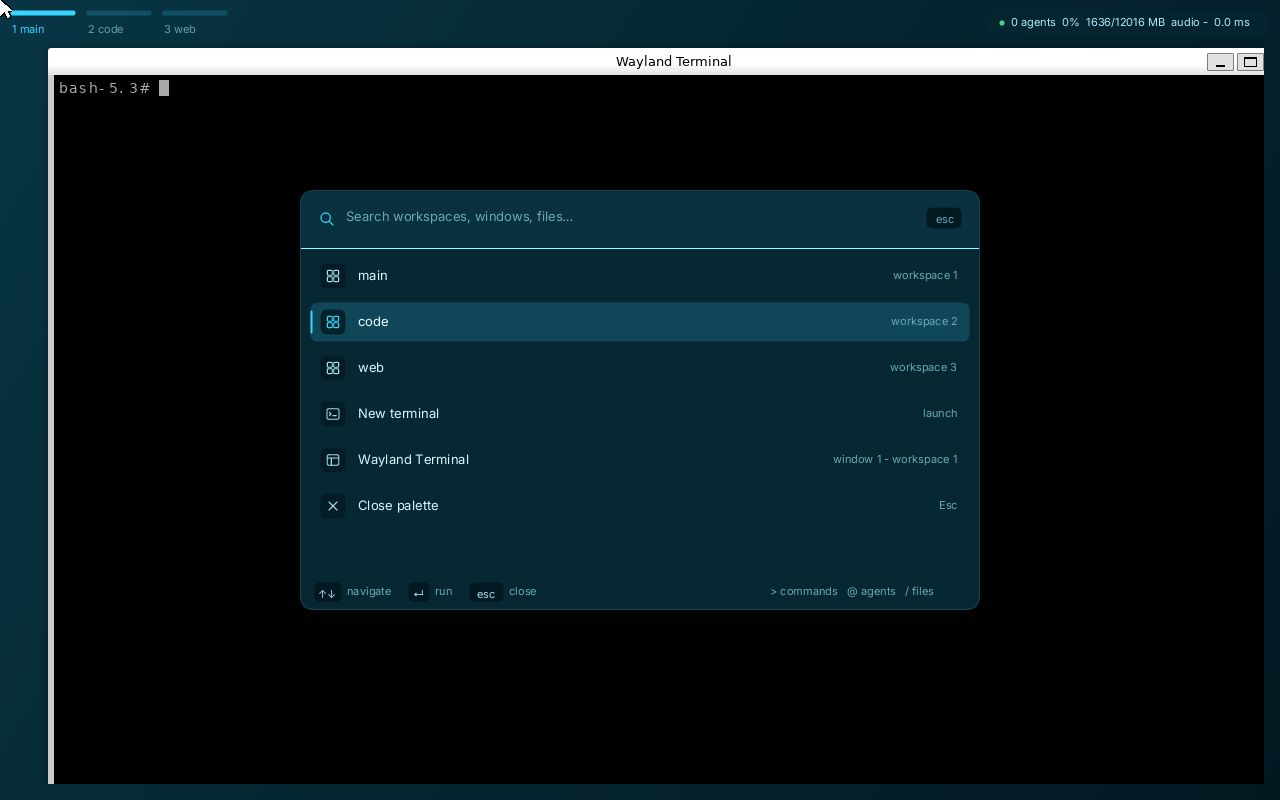
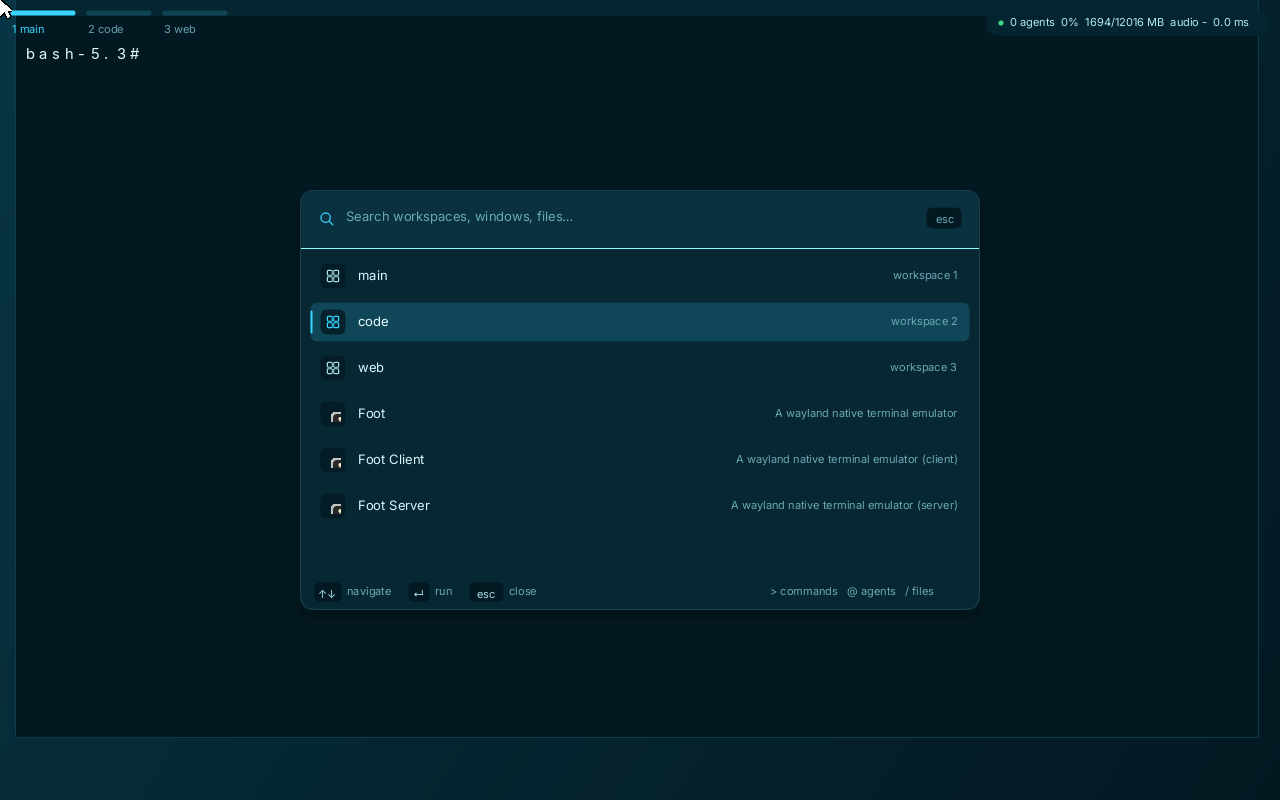
feat(terminal): ship Water-themed foot terminal

diff --git a/os/compositor/aether-shell-wayland/src/app.rs b/os/compositor/aether-shell-wayland/src/app.rs
@@ -1058,7 +1058,7 @@ impl App {
 
     fn spawn_terminal(&mut self) {
         let program =
-            std::env::var("AETHER_TERMINAL").unwrap_or_else(|_| "weston-terminal".to_string());
+            std::env::var("AETHER_TERMINAL").unwrap_or_else(|_| "aether-terminal".to_string());
         self.spawn_program(&program, &[], "terminal");
     }
 

diff --git a/apps/docs/docs/architecture/smithay-backend.md b/apps/docs/docs/architecture/smithay-backend.md
@@ -22,8 +22,9 @@ aether-shell (policy) ──> FramePlan ──> aether-shell-smithay (Linux)
 
 ![Two Wayland terminal clients tiled by the shell](/img/smithay-client.png)
 
-*Two real `weston-terminal` xdg-shell clients with shared-memory buffers, tiled by
-`aether-shell` and rendered by `aether-shell-smithay` under Xvfb.*
+*Two real `aether-terminal` (foot) xdg-shell clients with shared-memory buffers,
+tiled by `aether-shell` and rendered by `aether-shell-smithay` under Xvfb. Both
+use the Water ANSI palette and mono type.*
 
 ![The shell overlay above a client](/img/smithay-overlay.png)
 
@@ -95,7 +96,7 @@ or resized again. The smoke test asserts the 640x800 left-half rect.*
 ![Running the New terminal palette command](/img/smithay-new-terminal.png)
 
 *The palette also exposes commands. "New terminal" launches
-`$AETHER_TERMINAL` (default `weston-terminal`); the spawned client connects,
+`$AETHER_TERMINAL` (default `aether-terminal`); the spawned client connects,
 tiles and appears in the window provider.*
 
 ![Two clients after running New terminal](/img/smithay-new-terminal-open.png)
@@ -218,7 +219,7 @@ drag and both toggles with `xdotool` and asserts each transition.*
 - **Interactive palette with providers.** Results come from workspaces, client
   windows (titles stay in sync via xdg `title_changed`) and commands. The first
   command, `New terminal`, spawns `AETHER_TERMINAL` (default
-  `weston-terminal`) into the compositor. Installed applications are discovered
+  `aether-terminal`, a Water-themed foot wrapper) into the compositor. Installed applications are discovered
   from XDG `.desktop` files at startup and appear as `LaunchApp` entries with
   optional PNG icons and secondary actions.
   A bounded filename index (`aether-files`) adds `OpenFile` results for non-empty
@@ -426,7 +427,7 @@ cargo build --manifest-path os/compositor/aether-shell-drm/Cargo.toml
 ./os/compositor/aether-shell-smithay/target/debug/aether-shell-smithay
 
 # launch a client against it in another shell:
-WAYLAND_DISPLAY=aether-0 weston-terminal
+WAYLAND_DISPLAY=aether-0 ./os/compositor/aether-shell-smithay/aether-terminal.sh
 
 # shell FramePlan demo (solid surfaces, no clients):
 ./os/compositor/aether-shell-smithay/target/debug/aether-shell-smithay --demo
@@ -485,7 +486,8 @@ The smoke scripts manage `XDG_RUNTIME_DIR`, Xvfb and the test client. Most use
 shell (`wl-copy`/`wl-paste` for the clipboard smoke and
 the idle-frame smoke for `AETHER_FRAME_LOG`).
 Set `AETHER_TERMINAL` to change the built-in
-terminal launcher. Desktop apps come from `XDG_DATA_HOME`/`XDG_DATA_DIRS`
+terminal launcher; the default wrapper loads
+`os/compositor/aether-shell-smithay/foot/foot.ini` and matches the shell palette. Desktop apps come from `XDG_DATA_HOME`/`XDG_DATA_DIRS`
 (`~/.local/share` and `/usr/local/share:/usr/share` by default). The file index
 uses `AETHER_FILE_ROOTS` (default `$HOME`), `AETHER_FILE_LIMIT` (default 2000),
 `AETHER_FILE_DEPTH` (default 5), `AETHER_OPENER` (default `xdg-open`),

diff --git a/apps/docs/docs/design/design-system.md b/apps/docs/docs/design/design-system.md
@@ -100,6 +100,7 @@ premultiplied alpha, soft shadows, SVG icons and a deep-sea gradient.
 | Explorer | 62 px app bar, 56 px pane header, 30 px columns and rows, 30 px footer, 36 px status bar |
 | Palette | 680 × 420, 58 px search header, six 40 px rows at 46 px pitch, keycap footer |
 | Chat | 400 px drawer, header pill, assistant card with code strips, 38 px composer |
+| Terminal | `aether-terminal` (foot) with Water ANSI palette, 11 px mono, 28 px top pad, 1 px CSD border |
 
 ![Water explorer in the compositor](/img/smithay-explorer.png)
 
@@ -117,9 +118,22 @@ rounded active row and a keycap footer.*
 composer with send affordance. Bold spans are rendered with a second coverage
 pass, not a different font.*
 
+![Water-themed terminal](/img/smithay-terminal.png)
+
+*`aether-terminal` runs foot with the Water ANSI palette, DejaVu Sans Mono at
+11 px and a 1 px border. It has no client-side titlebar under the compositor, so the
+shell workspace pills stay legible above the padded terminal surface.*
+
 Font discovery order: `AETHER_FONT`, standard Inter paths, `/nix/store` scan,
 then the bitmap fallback. NixOS sets `AETHER_FONT` in the session service and
 installs Inter via `fonts.packages`; the Smithay dev shell exports it too.
+
+The default terminal is `aether-terminal`, a wrapper around **foot** with
+`os/compositor/aether-shell-smithay/foot/foot.ini`: Water background and ANSI
+palette, `DejaVu Sans Mono` at 11 px, a cyan beam cursor and a 1 px CSD border.
+The 28 px top pad keeps the shell's workspace pills from colliding with terminal
+output, since foot has no titlebar under the compositor. Set `AETHER_TERMINAL`
+to override; `aether-session` exports the packaged wrapper.
 
 ## Usage
 
@@ -174,6 +188,8 @@ Known gaps: AT-SPI/screen-reader support is not implemented; see
 | `apps/docs/src/css/custom.css` | Docs theme mapping |
 | `os/compositor/aether-shell-wayland/src/chrome.rs` | Rounded panels, shadows, gradient, SVG icons |
 | `os/compositor/crates/aether-text/src/font.rs` | Inter/fontdue rasterizer |
+| `os/compositor/aether-shell-smithay/foot/foot.ini` | Water terminal palette and CSD |
+| `os/compositor/aether-shell-smithay/aether-terminal.sh` | Dev terminal wrapper |
 | `os/compositor/crates/aether-shell/src/design.rs` | Compositor token mirror (`scripts/design-parity.ts`) |
 
 ## Contribution rules

diff --git a/apps/docs/docs/roadmap/design-system-and-explorer.md b/apps/docs/docs/roadmap/design-system-and-explorer.md
@@ -65,7 +65,7 @@ The React rebuild currently covers:
 | P2 | Map tokens to compositor scene-graph styles; match type metrics | Side-by-side screenshot parity with the reference at 1440×900 |
 | P3 (done) | Explorer as a shell layer with 10k-row virtualisation | 30 px rows, scroll p95 0.004 ms; 120 Hz on target pending |
 | P3 (done) | Palette layer parity | Prefix modes/subsequence + shared fixture; 10k p95 1.11 ms |
-| P3 (done) | Native chrome parity | Inter, rounded glass panels, SVG icons, full-output explorer, six-row palette, chat cards |
+| P3 (done) | Native chrome parity | Inter, rounded glass panels, SVG icons, full-output explorer, six-row palette, chat cards, Water-themed terminal |
 | P4 | Audio overlay uses the same badge/segmented primitives | No new one-off components |
 | P6 | Browser and media chrome reuse the component vocabulary | Visual review against the reference |
 | P8 | Accessibility pass on the shared components | Focus, contrast, reduced motion verified |
@@ -84,7 +84,8 @@ Before any surface is declared “aligned”, verify:
 - [x] Compositor tokens mirror `tokens.css`; `scripts/design-parity.ts` guards drift.
 
 Screenshot evidence: [`explorer`](/img/smithay-explorer.png),
-[`palette`](/img/smithay-palette.png), [`chat`](/img/smithay-chat.png).
+[`palette`](/img/smithay-palette.png), [`chat`](/img/smithay-chat.png),
+[`terminal`](/img/smithay-terminal.png).
 
 ## Divergence policy
 
